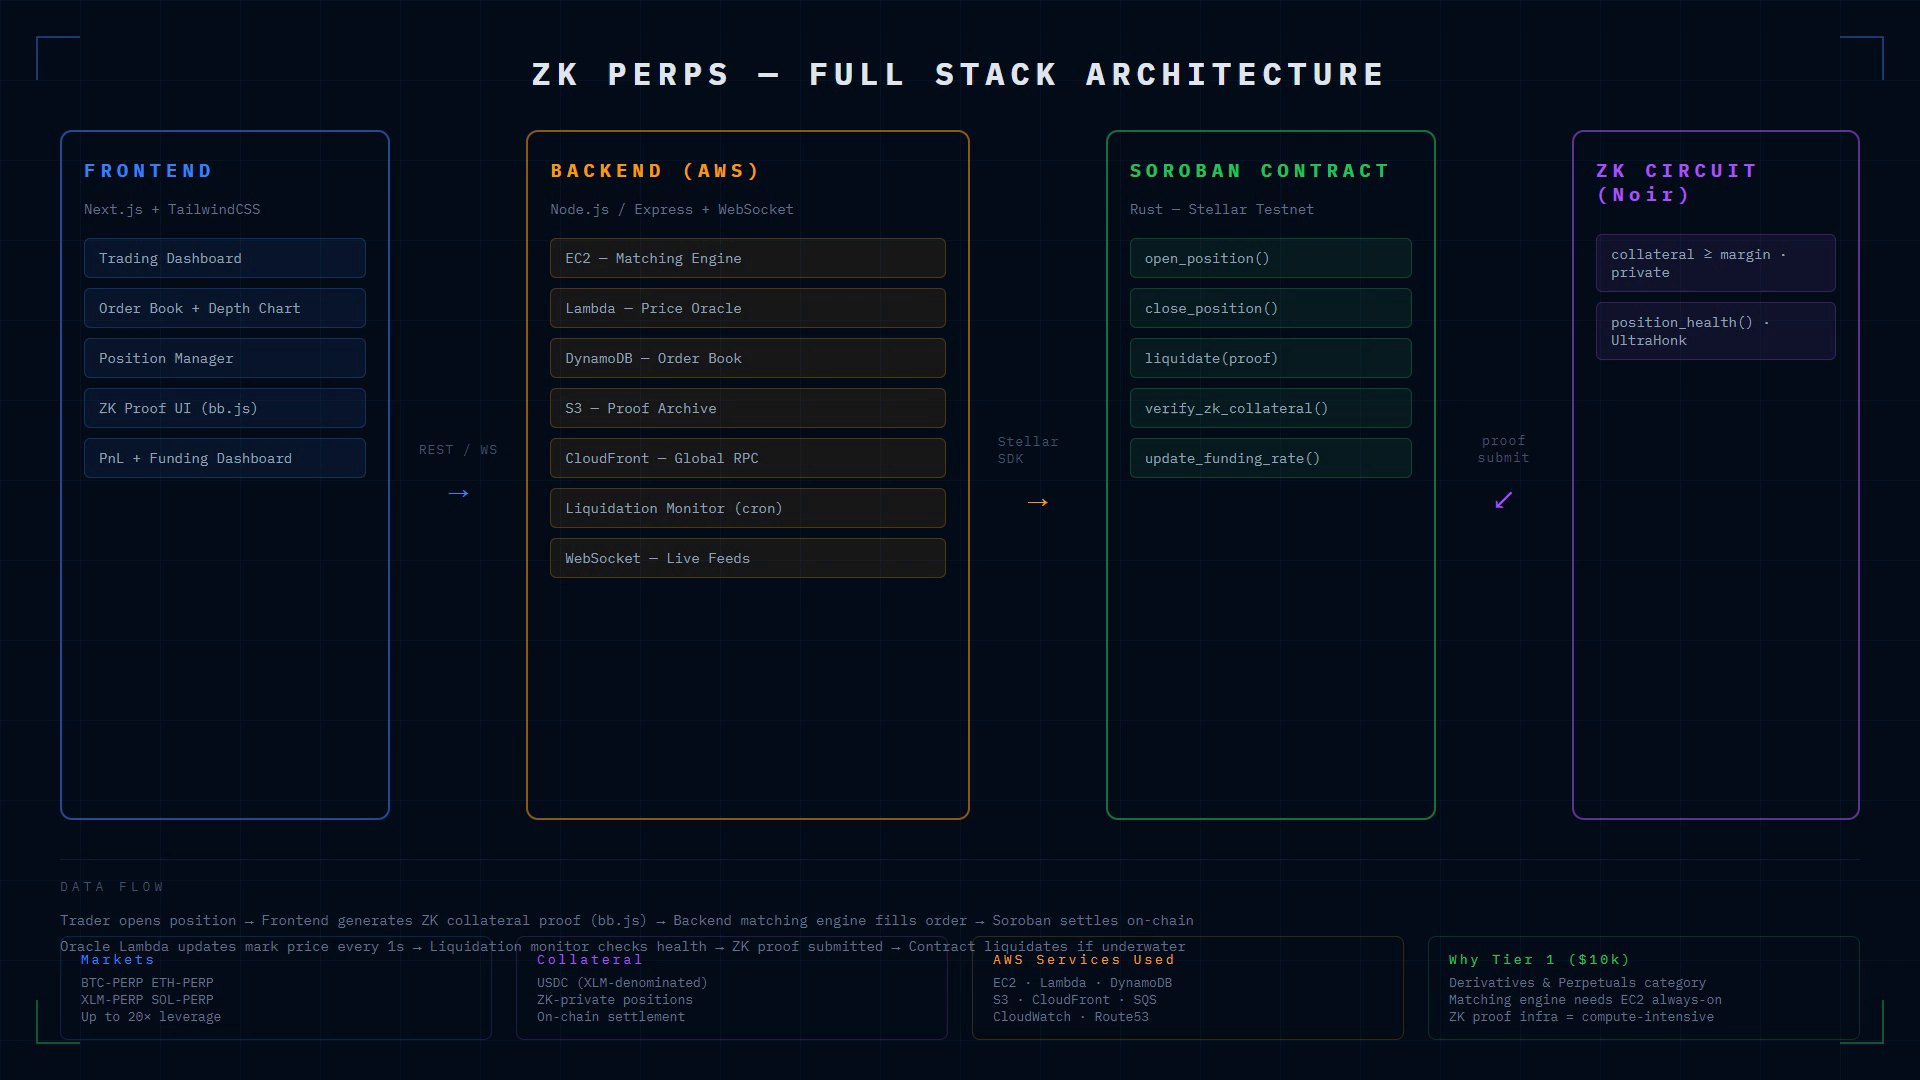
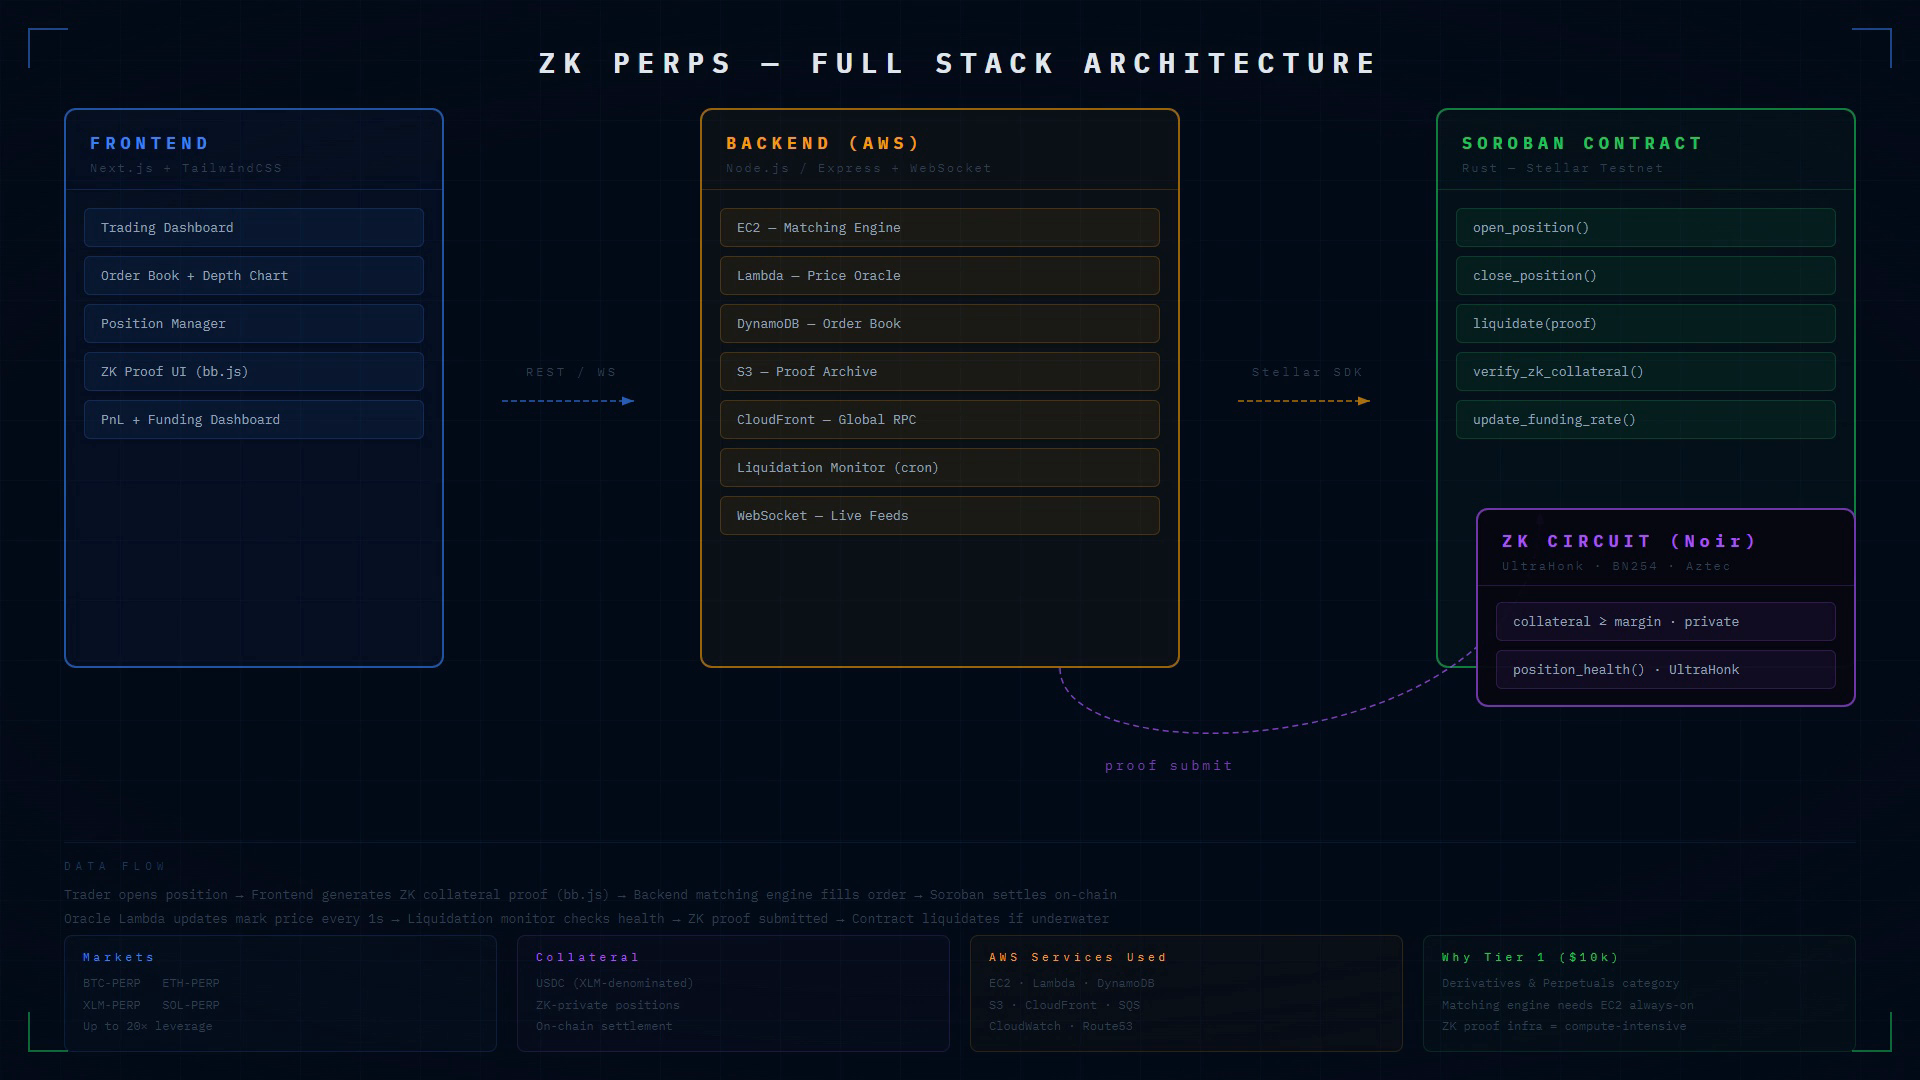
Update architecture diagram with ZK Circuit offset layout

diff --git a/docs/index.html b/docs/index.html
@@ -5,126 +5,152 @@
 <link href="https://fonts.googleapis.com/css2?family=IBM+Plex+Mono:wght@400;700&display=swap" rel="stylesheet"/>
 <style>
 *{margin:0;padding:0;box-sizing:border-box}
-html,body{width:1920px;height:1080px;overflow:hidden;background:#060e1c;font-family:'IBM Plex Mono',monospace}
+html,body{width:1920px;height:1080px;overflow:hidden;background:#060d1a;font-family:'IBM Plex Mono',monospace}
 </style>
 </head>
 <body>
 <div id="root" data-composition-id="zk-arch"
   data-start="0" data-width="1920" data-height="1080"
   data-duration="1" data-fps="30"
-  style="position:relative;width:1920px;height:1080px;overflow:hidden;background:#060e1c">
+  style="position:relative;width:1920px;height:1080px;overflow:hidden;background:#060d1a">
 
-<!-- grid bg -->
-<div style="position:absolute;inset:0;background-image:linear-gradient(rgba(59,130,246,0.06) 1px,transparent 1px),linear-gradient(90deg,rgba(59,130,246,0.06) 1px,transparent 1px);background-size:80px 80px"></div>
+<!-- grid -->
+<div style="position:absolute;inset:0;background-image:linear-gradient(rgba(59,130,246,0.04) 1px,transparent 1px),linear-gradient(90deg,rgba(59,130,246,0.04) 1px,transparent 1px);background-size:60px 60px"></div>
+<!-- vignette -->
+<div style="position:absolute;inset:0;background:radial-gradient(ellipse 130% 100% at 50% 50%,transparent 40%,#060d1a 100%)"></div>
+
+<!-- corner brackets -->
+<div style="position:absolute;top:28px;left:28px;width:40px;height:40px;border-top:2px solid rgba(59,130,246,0.5);border-left:2px solid rgba(59,130,246,0.5)"></div>
+<div style="position:absolute;top:28px;right:28px;width:40px;height:40px;border-top:2px solid rgba(59,130,246,0.5);border-right:2px solid rgba(59,130,246,0.5)"></div>
+<div style="position:absolute;bottom:28px;left:28px;width:40px;height:40px;border-bottom:2px solid rgba(34,197,94,0.5);border-left:2px solid rgba(34,197,94,0.5)"></div>
+<div style="position:absolute;bottom:28px;right:28px;width:40px;height:40px;border-bottom:2px solid rgba(34,197,94,0.5);border-right:2px solid rgba(34,197,94,0.5)"></div>
 
 <!-- title -->
-<div style="position:absolute;top:52px;left:0;right:0;text-align:center;font-size:32px;font-weight:700;color:#e2e8f0;letter-spacing:6px">ZK PERPS — FULL STACK ARCHITECTURE</div>
+<div style="position:absolute;top:44px;left:0;right:0;text-align:center;font-size:28px;font-weight:700;color:#e2e8f0;letter-spacing:8px">ZK PERPS — FULL STACK ARCHITECTURE</div>
 
-<!-- corner marks -->
-<div style="position:absolute;top:36px;left:36px;width:44px;height:44px;border-top:2px solid rgba(59,130,246,0.4);border-left:2px solid rgba(59,130,246,0.4)"></div>
-<div style="position:absolute;top:36px;right:36px;width:44px;height:44px;border-top:2px solid rgba(59,130,246,0.4);border-right:2px solid rgba(59,130,246,0.4)"></div>
-<div style="position:absolute;bottom:36px;left:36px;width:44px;height:44px;border-bottom:2px solid rgba(34,197,94,0.4);border-left:2px solid rgba(34,197,94,0.4)"></div>
-<div style="position:absolute;bottom:36px;right:36px;width:44px;height:44px;border-bottom:2px solid rgba(34,197,94,0.4);border-right:2px solid rgba(34,197,94,0.4)"></div>
+<!-- MAIN 3-BOX ROW -->
+<div style="position:absolute;top:108px;left:64px;right:64px;height:560px;display:flex;align-items:stretch;gap:0">
 
-<!-- boxes row -->
-<div style="position:absolute;top:130px;left:60px;right:60px;bottom:260px;display:flex;gap:28px;align-items:stretch">
-
-  <!-- FRONTEND -->
-  <div style="flex:1;border:2px solid rgba(59,130,246,0.55);border-radius:12px;padding:26px 22px;display:flex;flex-direction:column;gap:0">
-    <div style="font-size:19px;font-weight:700;color:#3b82f6;letter-spacing:5px;margin-bottom:18px">FRONTEND</div>
-    <div style="font-size:14px;color:#64748b;margin-bottom:20px">Next.js + TailwindCSS</div>
-    <div style="display:flex;flex-direction:column;gap:10px">
-      <div style="background:rgba(59,130,246,0.08);border:1px solid rgba(59,130,246,0.25);border-radius:6px;padding:10px 14px;font-size:14px;color:#94a3b8">Trading Dashboard</div>
-      <div style="background:rgba(59,130,246,0.08);border:1px solid rgba(59,130,246,0.25);border-radius:6px;padding:10px 14px;font-size:14px;color:#94a3b8">Order Book + Depth Chart</div>
-      <div style="background:rgba(59,130,246,0.08);border:1px solid rgba(59,130,246,0.25);border-radius:6px;padding:10px 14px;font-size:14px;color:#94a3b8">Position Manager</div>
-      <div style="background:rgba(59,130,246,0.08);border:1px solid rgba(59,130,246,0.25);border-radius:6px;padding:10px 14px;font-size:14px;color:#94a3b8">ZK Proof UI (bb.js)</div>
-      <div style="background:rgba(59,130,246,0.08);border:1px solid rgba(59,130,246,0.25);border-radius:6px;padding:10px 14px;font-size:14px;color:#94a3b8">PnL + Funding Dashboard</div>
+  <!-- FRONTEND BOX -->
+  <div style="width:380px;border:2px solid rgba(59,130,246,0.6);border-radius:12px;background:rgba(59,130,246,0.04);display:flex;flex-direction:column">
+    <div style="padding:22px 24px 14px;border-bottom:1px solid rgba(59,130,246,0.2)">
+      <div style="font-size:17px;font-weight:700;color:#3b82f6;letter-spacing:5px;margin-bottom:6px">FRONTEND</div>
+      <div style="font-size:12px;color:#334155;letter-spacing:2px">Next.js + TailwindCSS</div>
+    </div>
+    <div style="padding:18px 18px;display:flex;flex-direction:column;gap:9px;flex:1">
+      <div style="background:rgba(59,130,246,0.07);border:1px solid rgba(59,130,246,0.2);border-radius:6px;padding:10px 16px;font-size:13px;color:#94a3b8">Trading Dashboard</div>
+      <div style="background:rgba(59,130,246,0.07);border:1px solid rgba(59,130,246,0.2);border-radius:6px;padding:10px 16px;font-size:13px;color:#94a3b8">Order Book + Depth Chart</div>
+      <div style="background:rgba(59,130,246,0.07);border:1px solid rgba(59,130,246,0.2);border-radius:6px;padding:10px 16px;font-size:13px;color:#94a3b8">Position Manager</div>
+      <div style="background:rgba(59,130,246,0.07);border:1px solid rgba(59,130,246,0.2);border-radius:6px;padding:10px 16px;font-size:13px;color:#94a3b8">ZK Proof UI (bb.js)</div>
+      <div style="background:rgba(59,130,246,0.07);border:1px solid rgba(59,130,246,0.2);border-radius:6px;padding:10px 16px;font-size:13px;color:#94a3b8">PnL + Funding Dashboard</div>
     </div>
   </div>
 
-  <!-- arrow FE→BE -->
-  <div style="flex:0 0 80px;display:flex;flex-direction:column;align-items:center;justify-content:center;gap:8px">
-    <div style="font-size:13px;color:#475569;letter-spacing:1px">REST / WS</div>
-    <div style="font-size:32px;color:#3b82f6">→</div>
+  <!-- ARROW FE → BE -->
+  <div style="flex:1;display:flex;flex-direction:column;align-items:center;justify-content:center;gap:10px">
+    <div style="font-size:12px;color:#334155;letter-spacing:3px">REST / WS</div>
+    <svg width="140" height="24" viewBox="0 0 140 24">
+      <defs><marker id="ah1" markerWidth="8" markerHeight="6" refX="8" refY="3" orient="auto"><polygon points="0 0, 8 3, 0 6" fill="#3b82f6"/></marker></defs>
+      <line x1="0" y1="12" x2="132" y2="12" stroke="#3b82f6" stroke-width="1.5" marker-end="url(#ah1)" stroke-dasharray="6,3" opacity="0.7"/>
+    </svg>
   </div>
 
-  <!-- BACKEND AWS -->
-  <div style="flex:1.4;border:2px solid rgba(245,158,11,0.55);border-radius:12px;padding:26px 22px;display:flex;flex-direction:column;gap:0">
-    <div style="font-size:19px;font-weight:700;color:#f59e0b;letter-spacing:5px;margin-bottom:18px">BACKEND (AWS)</div>
-    <div style="font-size:14px;color:#64748b;margin-bottom:20px">Node.js / Express + WebSocket</div>
-    <div style="display:flex;flex-direction:column;gap:10px">
-      <div style="background:rgba(245,158,11,0.08);border:1px solid rgba(245,158,11,0.25);border-radius:6px;padding:10px 14px;font-size:14px;color:#94a3b8">EC2 — Matching Engine</div>
-      <div style="background:rgba(245,158,11,0.08);border:1px solid rgba(245,158,11,0.25);border-radius:6px;padding:10px 14px;font-size:14px;color:#94a3b8">Lambda — Price Oracle</div>
-      <div style="background:rgba(245,158,11,0.08);border:1px solid rgba(245,158,11,0.25);border-radius:6px;padding:10px 14px;font-size:14px;color:#94a3b8">DynamoDB — Order Book</div>
-      <div style="background:rgba(245,158,11,0.08);border:1px solid rgba(245,158,11,0.25);border-radius:6px;padding:10px 14px;font-size:14px;color:#94a3b8">S3 — Proof Archive</div>
-      <div style="background:rgba(245,158,11,0.08);border:1px solid rgba(245,158,11,0.25);border-radius:6px;padding:10px 14px;font-size:14px;color:#94a3b8">CloudFront — Global RPC</div>
-      <div style="background:rgba(245,158,11,0.08);border:1px solid rgba(245,158,11,0.25);border-radius:6px;padding:10px 14px;font-size:14px;color:#94a3b8">Liquidation Monitor (cron)</div>
-      <div style="background:rgba(245,158,11,0.08);border:1px solid rgba(245,158,11,0.25);border-radius:6px;padding:10px 14px;font-size:14px;color:#94a3b8">WebSocket — Live Feeds</div>
+  <!-- BACKEND (AWS) BOX -->
+  <div style="width:480px;border:2px solid rgba(245,158,11,0.6);border-radius:12px;background:rgba(245,158,11,0.03);display:flex;flex-direction:column">
+    <div style="padding:22px 24px 14px;border-bottom:1px solid rgba(245,158,11,0.2)">
+      <div style="font-size:17px;font-weight:700;color:#f59e0b;letter-spacing:5px;margin-bottom:6px">BACKEND (AWS)</div>
+      <div style="font-size:12px;color:#334155;letter-spacing:2px">Node.js / Express + WebSocket</div>
+    </div>
+    <div style="padding:18px 18px;display:flex;flex-direction:column;gap:9px;flex:1">
+      <div style="background:rgba(245,158,11,0.07);border:1px solid rgba(245,158,11,0.2);border-radius:6px;padding:10px 16px;font-size:13px;color:#94a3b8">EC2 — Matching Engine</div>
+      <div style="background:rgba(245,158,11,0.07);border:1px solid rgba(245,158,11,0.2);border-radius:6px;padding:10px 16px;font-size:13px;color:#94a3b8">Lambda — Price Oracle</div>
+      <div style="background:rgba(245,158,11,0.07);border:1px solid rgba(245,158,11,0.2);border-radius:6px;padding:10px 16px;font-size:13px;color:#94a3b8">DynamoDB — Order Book</div>
+      <div style="background:rgba(245,158,11,0.07);border:1px solid rgba(245,158,11,0.2);border-radius:6px;padding:10px 16px;font-size:13px;color:#94a3b8">S3 — Proof Archive</div>
+      <div style="background:rgba(245,158,11,0.07);border:1px solid rgba(245,158,11,0.2);border-radius:6px;padding:10px 16px;font-size:13px;color:#94a3b8">CloudFront — Global RPC</div>
+      <div style="background:rgba(245,158,11,0.07);border:1px solid rgba(245,158,11,0.2);border-radius:6px;padding:10px 16px;font-size:13px;color:#94a3b8">Liquidation Monitor (cron)</div>
+      <div style="background:rgba(245,158,11,0.07);border:1px solid rgba(245,158,11,0.2);border-radius:6px;padding:10px 16px;font-size:13px;color:#94a3b8">WebSocket — Live Feeds</div>
     </div>
   </div>
 
-  <!-- arrow BE→SC -->
-  <div style="flex:0 0 80px;display:flex;flex-direction:column;align-items:center;justify-content:center;gap:8px">
-    <div style="font-size:13px;color:#475569;letter-spacing:1px">Stellar SDK</div>
-    <div style="font-size:32px;color:#f59e0b">→</div>
+  <!-- ARROW BE → SC -->
+  <div style="flex:1;display:flex;flex-direction:column;align-items:center;justify-content:center;gap:10px">
+    <div style="font-size:12px;color:#334155;letter-spacing:3px">Stellar SDK</div>
+    <svg width="140" height="24" viewBox="0 0 140 24">
+      <defs><marker id="ah2" markerWidth="8" markerHeight="6" refX="8" refY="3" orient="auto"><polygon points="0 0, 8 3, 0 6" fill="#f59e0b"/></marker></defs>
+      <line x1="0" y1="12" x2="132" y2="12" stroke="#f59e0b" stroke-width="1.5" marker-end="url(#ah2)" stroke-dasharray="6,3" opacity="0.7"/>
+    </svg>
   </div>
 
-  <!-- SOROBAN CONTRACT -->
-  <div style="flex:1;border:2px solid rgba(34,197,94,0.55);border-radius:12px;padding:26px 22px;display:flex;flex-direction:column;gap:0">
-    <div style="font-size:19px;font-weight:700;color:#22c55e;letter-spacing:5px;margin-bottom:18px">SOROBAN CONTRACT</div>
-    <div style="font-size:14px;color:#64748b;margin-bottom:20px">Rust — Stellar Testnet</div>
-    <div style="display:flex;flex-direction:column;gap:10px">
-      <div style="background:rgba(34,197,94,0.08);border:1px solid rgba(34,197,94,0.25);border-radius:6px;padding:10px 14px;font-size:14px;color:#94a3b8">open_position()</div>
-      <div style="background:rgba(34,197,94,0.08);border:1px solid rgba(34,197,94,0.25);border-radius:6px;padding:10px 14px;font-size:14px;color:#94a3b8">close_position()</div>
-      <div style="background:rgba(34,197,94,0.08);border:1px solid rgba(34,197,94,0.25);border-radius:6px;padding:10px 14px;font-size:14px;color:#94a3b8">liquidate(proof)</div>
-      <div style="background:rgba(34,197,94,0.08);border:1px solid rgba(34,197,94,0.25);border-radius:6px;padding:10px 14px;font-size:14px;color:#94a3b8">verify_zk_collateral()</div>
-      <div style="background:rgba(34,197,94,0.08);border:1px solid rgba(34,197,94,0.25);border-radius:6px;padding:10px 14px;font-size:14px;color:#94a3b8">update_funding_rate()</div>
+  <!-- SOROBAN CONTRACT BOX -->
+  <div style="width:420px;border:2px solid rgba(34,197,94,0.6);border-radius:12px;background:rgba(34,197,94,0.03);display:flex;flex-direction:column">
+    <div style="padding:22px 24px 14px;border-bottom:1px solid rgba(34,197,94,0.2)">
+      <div style="font-size:17px;font-weight:700;color:#22c55e;letter-spacing:5px;margin-bottom:6px">SOROBAN CONTRACT</div>
+      <div style="font-size:12px;color:#334155;letter-spacing:2px">Rust — Stellar Testnet</div>
     </div>
-  </div>
-
-  <!-- arrow to ZK -->
-  <div style="flex:0 0 80px;display:flex;flex-direction:column;align-items:center;justify-content:center;gap:8px">
-    <div style="font-size:13px;color:#475569;letter-spacing:1px;text-align:center">proof<br/>submit</div>
-    <div style="font-size:32px;color:#a855f7">↙</div>
-  </div>
-
-  <!-- ZK CIRCUIT -->
-  <div style="flex:0.85;border:2px solid rgba(168,85,247,0.55);border-radius:12px;padding:26px 22px;display:flex;flex-direction:column;gap:0">
-    <div style="font-size:19px;font-weight:700;color:#a855f7;letter-spacing:5px;margin-bottom:18px">ZK CIRCUIT (Noir)</div>
-    <div style="display:flex;flex-direction:column;gap:10px;margin-top:10px">
-      <div style="background:rgba(168,85,247,0.08);border:1px solid rgba(168,85,247,0.25);border-radius:6px;padding:10px 14px;font-size:14px;color:#94a3b8">collateral ≥ margin · private</div>
-      <div style="background:rgba(168,85,247,0.08);border:1px solid rgba(168,85,247,0.25);border-radius:6px;padding:10px 14px;font-size:14px;color:#94a3b8">position_health() · UltraHonk</div>
+    <div style="padding:18px 18px;display:flex;flex-direction:column;gap:9px;flex:1">
+      <div style="background:rgba(34,197,94,0.07);border:1px solid rgba(34,197,94,0.2);border-radius:6px;padding:10px 16px;font-size:13px;color:#94a3b8">open_position()</div>
+      <div style="background:rgba(34,197,94,0.07);border:1px solid rgba(34,197,94,0.2);border-radius:6px;padding:10px 16px;font-size:13px;color:#94a3b8">close_position()</div>
+      <div style="background:rgba(34,197,94,0.07);border:1px solid rgba(34,197,94,0.2);border-radius:6px;padding:10px 16px;font-size:13px;color:#94a3b8">liquidate(proof)</div>
+      <div style="background:rgba(34,197,94,0.07);border:1px solid rgba(34,197,94,0.2);border-radius:6px;padding:10px 16px;font-size:13px;color:#94a3b8">verify_zk_collateral()</div>
+      <div style="background:rgba(34,197,94,0.07);border:1px solid rgba(34,197,94,0.2);border-radius:6px;padding:10px 16px;font-size:13px;color:#94a3b8">update_funding_rate()</div>
     </div>
   </div>
 
 </div>
 
-<!-- DATA FLOW -->
-<div style="position:absolute;bottom:120px;left:60px;right:60px;border-top:1px solid rgba(59,130,246,0.15);padding-top:18px">
-  <div style="font-size:13px;color:#475569;letter-spacing:4px;margin-bottom:12px">DATA FLOW</div>
-  <div style="font-size:14px;color:#64748b;line-height:1.9">
-    Trader opens position → Frontend generates ZK collateral proof (bb.js) → Backend matching engine fills order → Soroban settles on-chain<br/>
-    Oracle Lambda updates mark price every 1s → Liquidation monitor checks health → ZK proof submitted → Contract liquidates if underwater
+<!-- ZK CIRCUIT BOX — offset bottom right, overlapping main row -->
+<div style="position:absolute;top:508px;right:64px;width:380px;border:2px solid rgba(168,85,247,0.65);border-radius:12px;background:rgba(10,8,20,0.95);z-index:10">
+  <div style="padding:20px 24px 12px;border-bottom:1px solid rgba(168,85,247,0.2)">
+    <div style="font-size:17px;font-weight:700;color:#a855f7;letter-spacing:5px;margin-bottom:6px">ZK CIRCUIT (Noir)</div>
+    <div style="font-size:12px;color:#334155;letter-spacing:2px">UltraHonk · BN254 · Aztec</div>
+  </div>
+  <div style="padding:16px 18px;display:flex;flex-direction:column;gap:9px">
+    <div style="background:rgba(168,85,247,0.07);border:1px solid rgba(168,85,247,0.2);border-radius:6px;padding:10px 16px;font-size:13px;color:#94a3b8">collateral ≥ margin · private</div>
+    <div style="background:rgba(168,85,247,0.07);border:1px solid rgba(168,85,247,0.2);border-radius:6px;padding:10px 16px;font-size:13px;color:#94a3b8">position_health() · UltraHonk</div>
   </div>
 </div>
 
-<!-- bottom stats row -->
-<div style="position:absolute;bottom:40px;left:60px;right:60px;display:flex;gap:24px">
-  <div style="flex:1;border:1px solid rgba(59,130,246,0.2);border-radius:8px;padding:14px 20px">
-    <div style="font-size:13px;color:#3b82f6;letter-spacing:3px;margin-bottom:6px">Markets</div>
-    <div style="font-size:13px;color:#64748b">BTC-PERP  ETH-PERP<br/>XLM-PERP  SOL-PERP<br/>Up to 20× leverage</div>
+<!-- diagonal SVG arrow: BACKEND bottom → ZK CIRCUIT top -->
+<svg style="position:absolute;top:0;left:0;width:1920px;height:1080px;pointer-events:none" viewBox="0 0 1920 1080">
+  <defs>
+    <marker id="azk" markerWidth="8" markerHeight="6" refX="8" refY="3" orient="auto">
+      <polygon points="0 0, 8 3, 0 6" fill="#a855f7"/>
+    </marker>
+  </defs>
+  <path d="M 1060 668 C 1060 780 1540 760 1540 512"
+    stroke="#a855f7" stroke-width="1.5" fill="none"
+    marker-end="url(#azk)" stroke-dasharray="6,4" opacity="0.75"/>
+  <text x="1105" y="770" font-family="IBM Plex Mono" font-size="13" fill="#a855f7" opacity="0.7" letter-spacing="3">proof submit</text>
+</svg>
+
+<!-- DATA FLOW SECTION -->
+<div style="position:absolute;bottom:148px;left:64px;right:64px">
+  <div style="border-top:1px solid rgba(59,130,246,0.12);padding-top:16px">
+    <div style="font-size:11px;color:#1e3a5f;letter-spacing:5px;margin-bottom:10px">DATA FLOW</div>
+    <div style="font-size:13px;color:#334155;line-height:1.9">
+      Trader opens position → Frontend generates ZK collateral proof (bb.js) → Backend matching engine fills order → Soroban settles on-chain<br/>
+      Oracle Lambda updates mark price every 1s → Liquidation monitor checks health → ZK proof submitted → Contract liquidates if underwater
+    </div>
   </div>
-  <div style="flex:1;border:1px solid rgba(168,85,247,0.2);border-radius:8px;padding:14px 20px">
-    <div style="font-size:13px;color:#a855f7;letter-spacing:3px;margin-bottom:6px">Collateral</div>
-    <div style="font-size:13px;color:#64748b">USDC (XLM-denominated)<br/>ZK-private positions<br/>On-chain settlement</div>
+</div>
+
+<!-- BOTTOM STATS ROW -->
+<div style="position:absolute;bottom:28px;left:64px;right:64px;display:flex;gap:20px">
+  <div style="flex:1;border:1px solid rgba(59,130,246,0.15);border-radius:8px;padding:14px 18px;background:rgba(59,130,246,0.02)">
+    <div style="font-size:11px;color:#3b82f6;letter-spacing:4px;margin-bottom:8px">Markets</div>
+    <div style="font-size:12px;color:#334155;line-height:1.8">BTC-PERP &nbsp; ETH-PERP<br/>XLM-PERP &nbsp; SOL-PERP<br/>Up to 20× leverage</div>
   </div>
-  <div style="flex:1;border:1px solid rgba(245,158,11,0.2);border-radius:8px;padding:14px 20px">
-    <div style="font-size:13px;color:#f59e0b;letter-spacing:3px;margin-bottom:6px">AWS Services Used</div>
-    <div style="font-size:13px;color:#64748b">EC2 · Lambda · DynamoDB<br/>S3 · CloudFront · SQS<br/>CloudWatch · Route53</div>
+  <div style="flex:1;border:1px solid rgba(168,85,247,0.15);border-radius:8px;padding:14px 18px;background:rgba(168,85,247,0.02)">
+    <div style="font-size:11px;color:#a855f7;letter-spacing:4px;margin-bottom:8px">Collateral</div>
+    <div style="font-size:12px;color:#334155;line-height:1.8">USDC (XLM-denominated)<br/>ZK-private positions<br/>On-chain settlement</div>
   </div>
-  <div style="flex:1;border:1px solid rgba(34,197,94,0.2);border-radius:8px;padding:14px 20px">
-    <div style="font-size:13px;color:#22c55e;letter-spacing:3px;margin-bottom:6px">Why Tier 1 ($10k)</div>
-    <div style="font-size:13px;color:#64748b">Derivatives &amp; Perpetuals category<br/>Matching engine needs EC2 always-on<br/>ZK proof infra = compute-intensive</div>
+  <div style="flex:1;border:1px solid rgba(245,158,11,0.15);border-radius:8px;padding:14px 18px;background:rgba(245,158,11,0.02)">
+    <div style="font-size:11px;color:#f59e0b;letter-spacing:4px;margin-bottom:8px">AWS Services Used</div>
+    <div style="font-size:12px;color:#334155;line-height:1.8">EC2 · Lambda · DynamoDB<br/>S3 · CloudFront · SQS<br/>CloudWatch · Route53</div>
+  </div>
+  <div style="flex:1;border:1px solid rgba(34,197,94,0.15);border-radius:8px;padding:14px 18px;background:rgba(34,197,94,0.02)">
+    <div style="font-size:11px;color:#22c55e;letter-spacing:4px;margin-bottom:8px">Why Tier 1 ($10k)</div>
+    <div style="font-size:12px;color:#334155;line-height:1.8">Derivatives &amp; Perpetuals category<br/>Matching engine needs EC2 always-on<br/>ZK proof infra = compute-intensive</div>
   </div>
 </div>
 